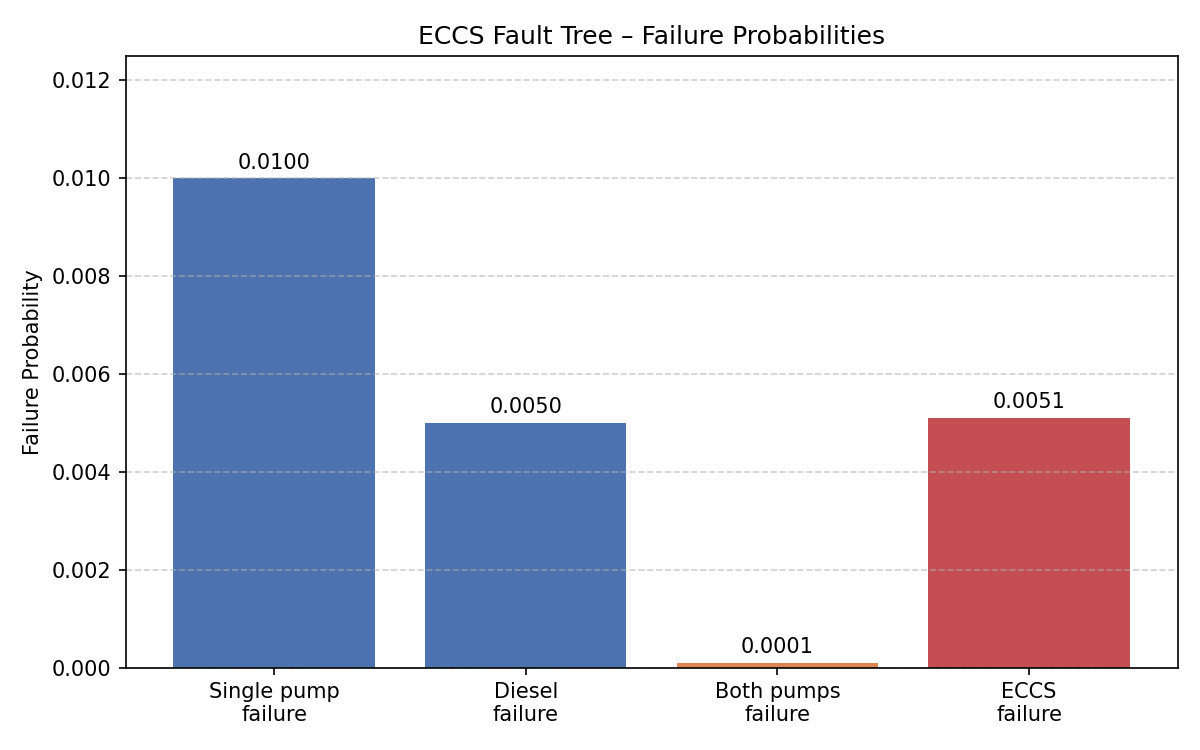
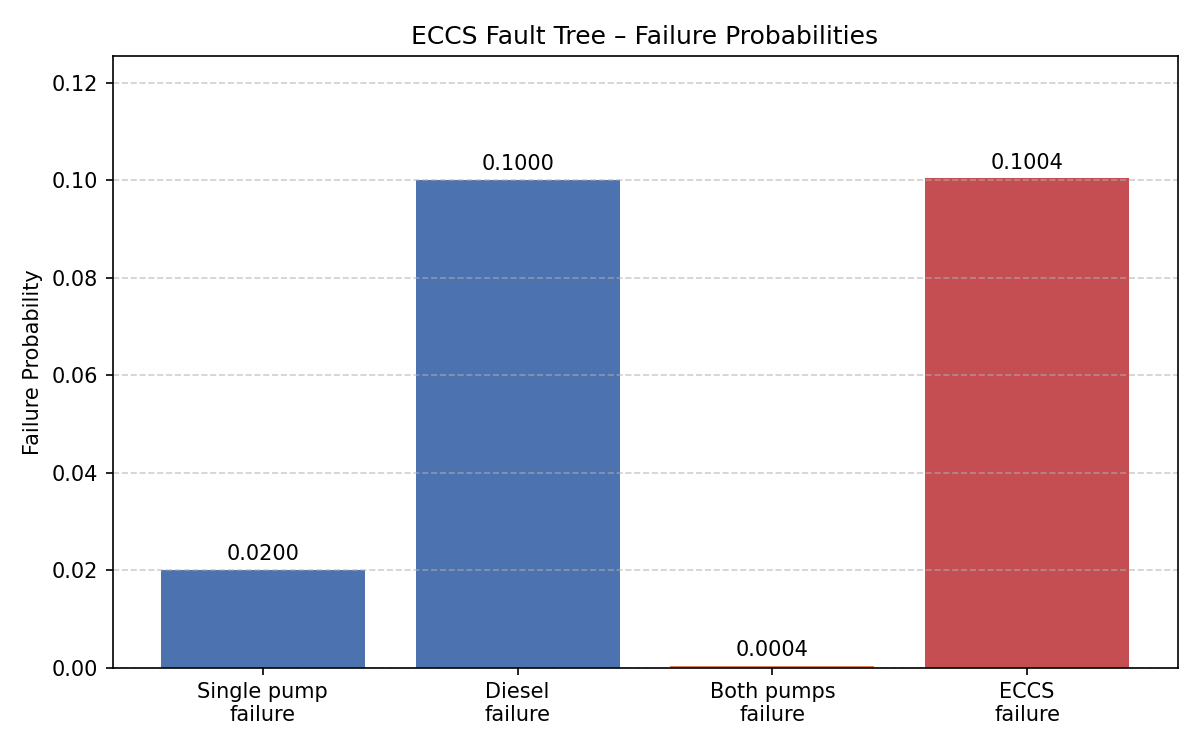
Add requirements.txt and professional README with installation, testing and project structure

diff --git a/test_eccs.py b/test_eccs.py
@@ -1,0 +1,52 @@
+"""
+Unit tests for the ECCS fault tree analysis module.
+Run with: pytest test_eccs.py -v
+"""
+
+import pytest
+from ECCS import probability_both_pumps_fail, probability_eccs_fail
+
+
+# ============================================================
+# TEST: AND gate (both pumps fail)
+# ============================================================
+def test_both_pumps_fail_basic():
+    """Both pumps fail probability should be p^2."""
+    assert probability_both_pumps_fail(0.01) == pytest.approx(0.0001)
+
+
+def test_both_pumps_fail_zero():
+    """If pump failure is 0, both fail is 0."""
+    assert probability_both_pumps_fail(0.0) == 0.0
+
+
+def test_both_pumps_fail_certain():
+    """If pump failure is 1, both fail is 1."""
+    assert probability_both_pumps_fail(1.0) == 1.0
+
+
+# ============================================================
+# TEST: OR gate (ECCS failure)
+# ============================================================
+def test_eccs_fail_basic():
+    """ECCS failure probability with standard values."""
+    result = probability_eccs_fail(0.01, 0.005)
+    assert result == pytest.approx(0.0051, abs=1e-6)
+
+
+def test_eccs_fail_zero():
+    """If all failures are 0, ECCS failure is 0."""
+    assert probability_eccs_fail(0.0, 0.0) == 0.0
+
+
+def test_eccs_fail_diesel_only():
+    """If pumps never fail, ECCS failure equals diesel failure."""
+    result = probability_eccs_fail(0.0, 0.005)
+    assert result == pytest.approx(0.005)
+
+
+def test_eccs_fail_monotonic():
+    """Increasing pump failure should increase ECCS failure."""
+    low = probability_eccs_fail(0.01, 0.005)
+    high = probability_eccs_fail(0.05, 0.005)
+    assert high > low
